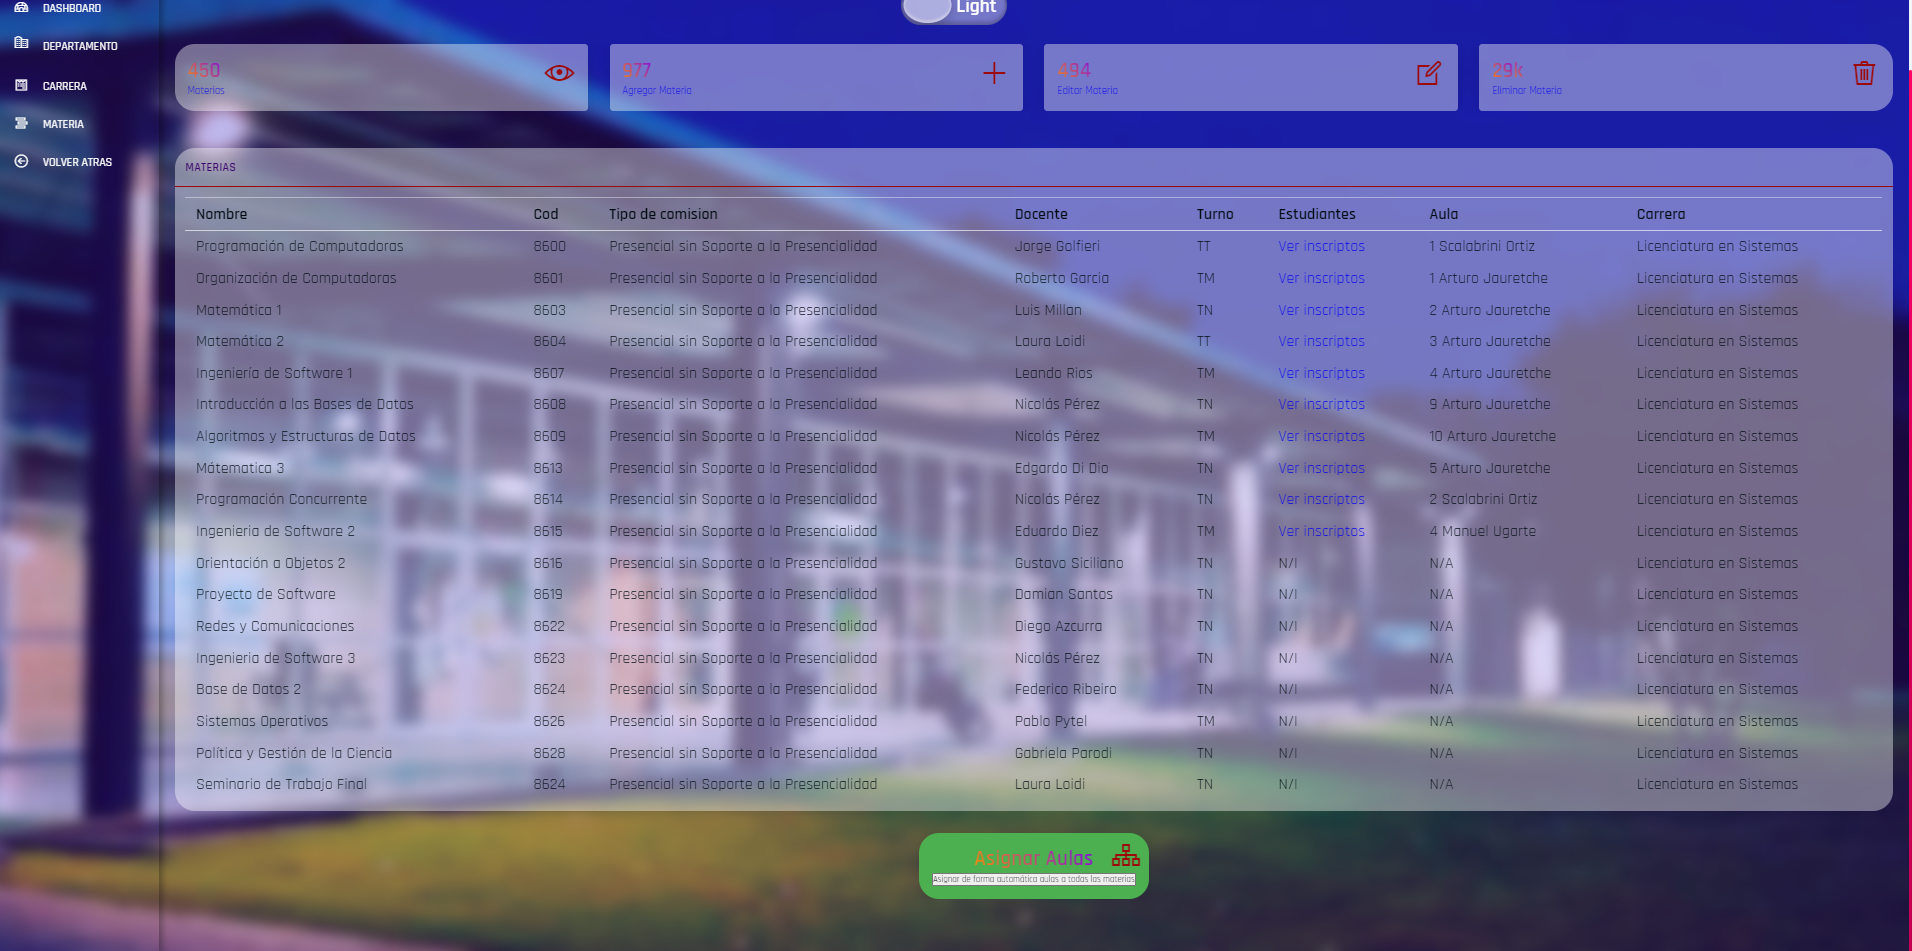
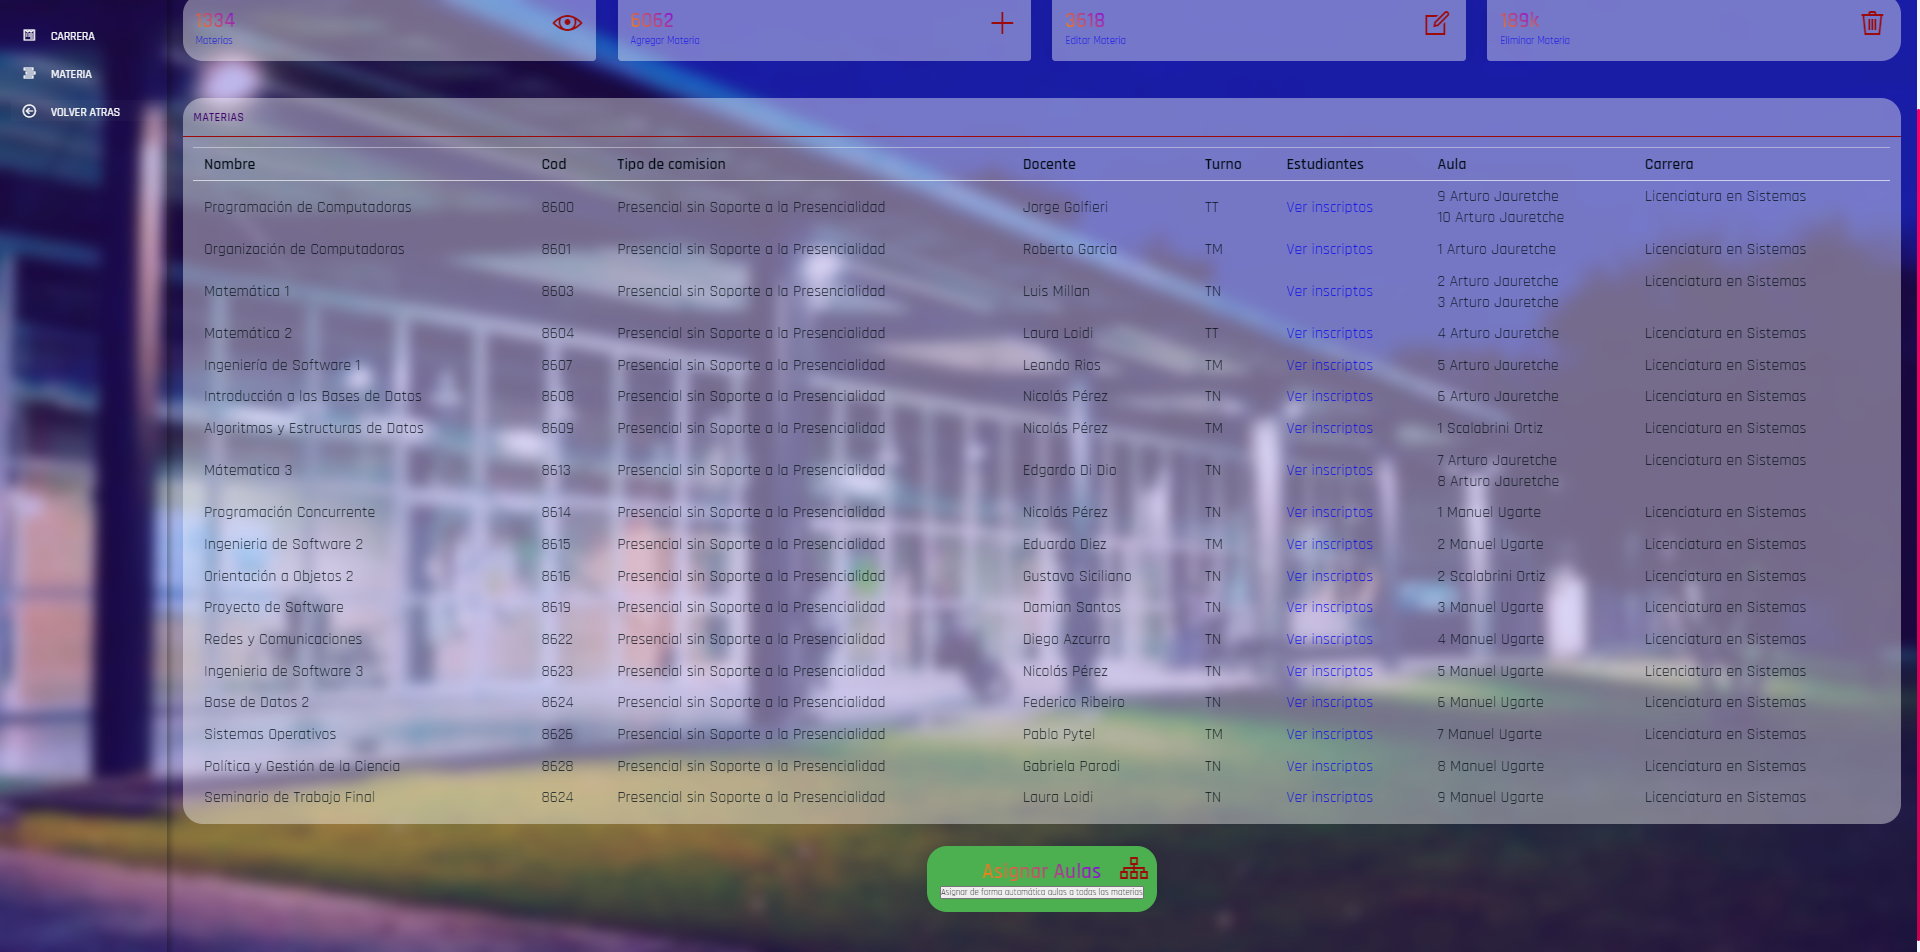
update documentacion readme

diff --git a/README.md b/README.md
@@ -60,13 +60,9 @@ Además, las aulas fueron creadas en base a las aulas reales disponibles en los 
 
 ## Vista de Administrador: Materias
 
-En esta instancia, se inscribieron algunos estudiantes en algunas materias para probar la asignación de aulas.
+En esta instancia, se inscribieron 1.000 estudiantes repartidos entre las materias para probar la asignación de aulas.
 
-- Para la entrega final, se abordarán algunos problemas de asignación, como:
-  - La posibilidad de asignar más de un aula a una materia en caso de que tenga una gran cantidad de estudiantes y no haya suficientes aulas disponibles para esa capacidad.
-  - En la segunda entrega se resolverá este problema.
-
-En la imagen, algunas materias no tienen inscritos debido a que es solo una prueba. Además, en el campo "AULA" aparece "N/A" (No Asignada). Una vez que un administrador presione el botón de asignación de aulas, estas se asignarán automáticamente.
+En la imagen, se listan las materias. Además, en el campo "AULA" aparece "N/A" (No Asignada). Una vez que un administrador presione el botón de asignación de aulas, estas se asignarán automáticamente.
 
 ![Vista de Materias para Administradores](images/adminViewMaterias.png)
 
@@ -87,7 +83,7 @@ En esta vista de administrador, después de hacer clic en el botón `Asignar Aul
 5. Ordena las aulas disponibles según su capacidad.
 6. Recorre las aulas disponibles, verificando que no estén ocupadas y que cuenten con el espacio suficiente para la cantidad de estudiantes requeridos.
 
-> **Nota:** Para la entrega final, se deberá implementar el [algoritmo de asignación de mas de un aula a una materia](#vista-de-administrador-materias).
+> **Nota:** En la imagen se muestra el resultado de la asignación, donde se puede observar que algunas materias tienen asignadas dos aulas. Esto se debe a las capacidades limitadas tanto de aulas como de materias. Por ejemplo, si una materia cuenta con 100 estudiantes y el aula más grande tiene capacidad para 70 personas en aulas tradicionales o 40-30 en laboratorios, hemos decidido asignar un aula adicional a esa materia (o las aulas que sean necesarias, NO se limita solo a una más).
 
 El código del algoritmo de asignación se encuentra en `src/main/java/com/services/impl/MateriaService.java`.
 
